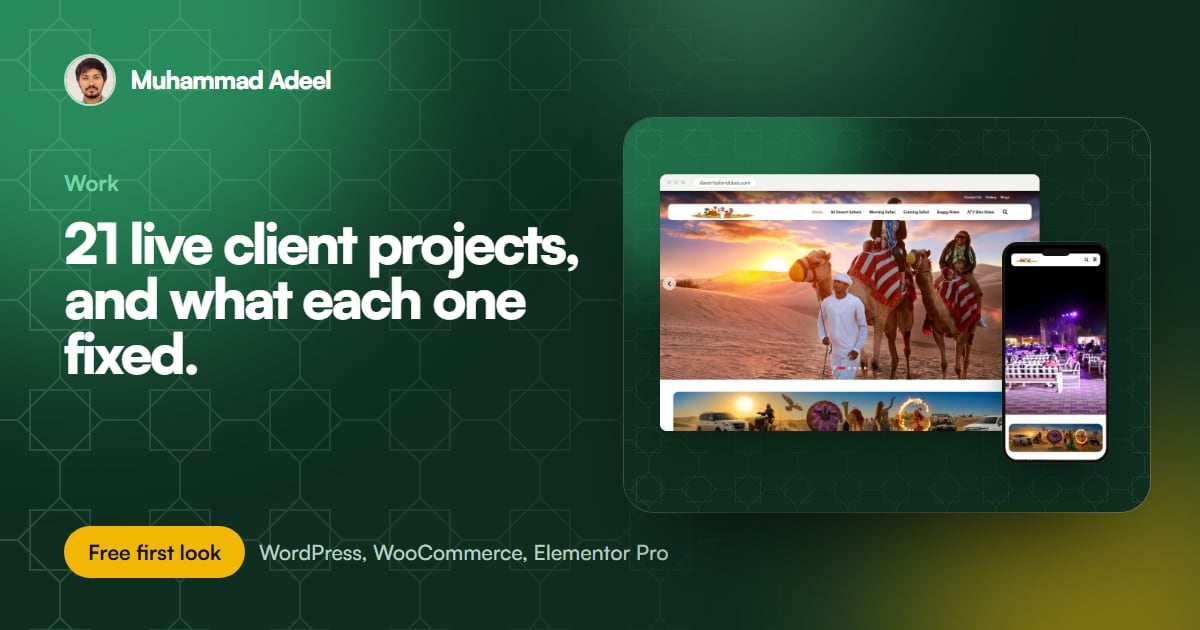
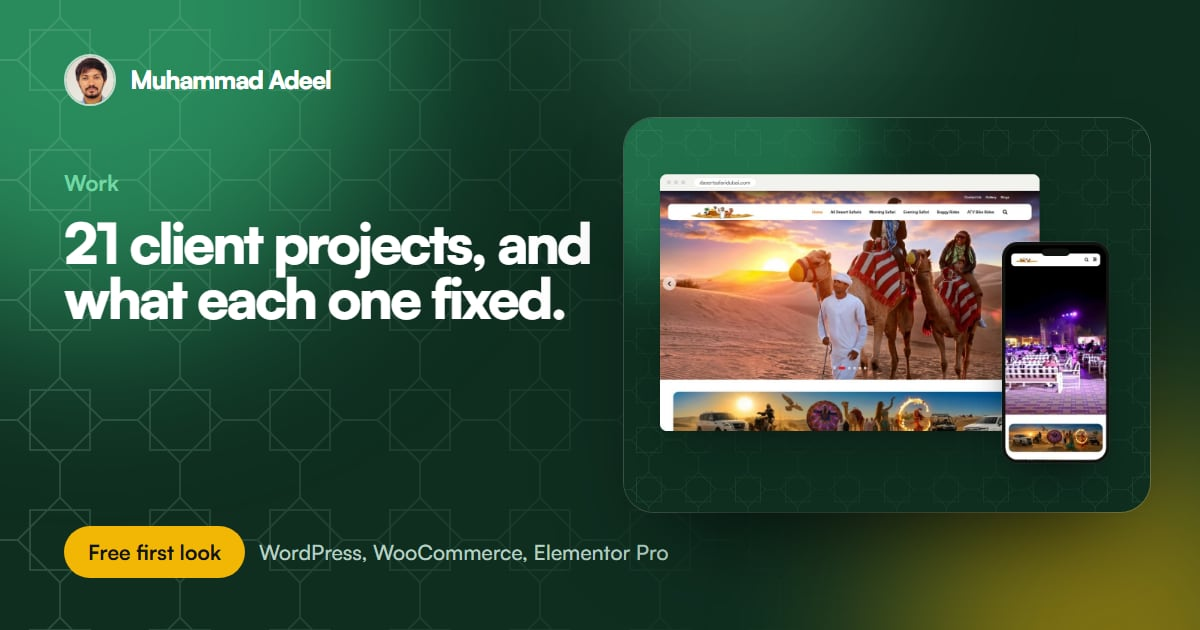
Make project counts defensible, add technology and result to case studies
- 19 of the 21 projects are live to open; the homepage, work page title,
  meta description and share image no longer say 21 live
- Counts are computed from the project data in build.js
- Case studies gain a Built with chapter, and a Result chapter for the
  three projects with an approved outcome
- README status reflects the deploy

Changed region(s): [[0.0308, 0.3317, 0.4933, 0.6032]]

diff --git a/build.js b/build.js
@@ -45,7 +45,9 @@ const pic = (rel, alt, o = {}) => { const m = manifest[rel]; if (!m) throw new E
 // client video: poster only until play is pressed, so it costs nothing at page load
 const videoFrame = v => '<div class="vt-frame"><video src="' + BASE + '/video/' + v.file + '" poster="' + imgUrl(v.poster, 960) + '" preload="none" playsinline width="576" height="1024"></video><button class="vt-play" type="button" aria-label="Play the video message from ' + esc(v.who) + '"><svg viewBox="0 0 24 24" aria-hidden="true"><path fill="currentColor" d="M8 5.5v13a1 1 0 0 0 1.5.86l10.5-6.5a1 1 0 0 0 0-1.72L9.5 4.64A1 1 0 0 0 8 5.5z"/></svg></button><span class="vt-len">' + v.len + '</span></div>';
 
-const fill = h => h.replace(/\{\{base\}\}/g, BASE).replace(/\{\{video:([a-z0-9-]+)\}\}/g, (m, slug) => videoFrame(projects.find(p => p.slug === slug).video)).replace(/\{\{icon:([a-z0-9-]+)\}\}/g, (m, n) => icon(n)).replace(/\{\{stack\}\}/g, stackStrip)
+// counts come from the data, so a claim on the page can never drift from what is actually on the site
+const COUNT = { all: projects.length, live: projects.filter(p => !p.offline).length };
+const fill = h => h.replace(/\{\{base\}\}/g, BASE).replace(/\{\{n:(all|live)\}\}/g, (m, k) => COUNT[k]).replace(/\{\{video:([a-z0-9-]+)\}\}/g, (m, slug) => videoFrame(projects.find(p => p.slug === slug).video)).replace(/\{\{icon:([a-z0-9-]+)\}\}/g, (m, n) => icon(n)).replace(/\{\{stack\}\}/g, stackStrip)
   .replace(/\{\{pic:([^|}]+)\|([^}]*)\}\}/g, (m, rel, alt) => rel === 'adeel' ? pic(rel, alt, { sizes: '(max-width:860px) 90vw, 420px' }) : pic(rel, alt));
 
 /* ---------- background motif: WordPress and the tools around it, one repeating SVG tile ---------- */
@@ -74,7 +76,7 @@ const closing = o => `<section class="final"><div class="orbs local"><i></i><i><
 
 const footer = () => `<footer class="site"><div class="wrap foot">
   <div><a class="brand" href="${BASE}/">${avatar()}${S.brand}</a><p>WordPress and WooCommerce developer in Lahore. I fix what is broken and build sites your team can run.</p></div>
-  <div><h2>Work</h2><a href="${BASE}/portfolio/">All 21 projects</a>${projects.slice(0, 3).map(p => '<a href="' + BASE + '/portfolio/' + p.slug + '/">' + esc(p.name) + '</a>').join('')}</div>
+  <div><h2>Work</h2><a href="${BASE}/portfolio/">All ${COUNT.all} projects</a>${projects.slice(0, 3).map(p => '<a href="' + BASE + '/portfolio/' + p.slug + '/">' + esc(p.name) + '</a>').join('')}</div>
   <div><h2>Services</h2>${C.services.map(s => '<a href="' + BASE + '/services/' + s.slug + '/">' + (s.nav === 'Fix' ? 'WooCommerce and WordPress fixes' : s.nav === 'Build' ? 'Website builds' : 'White label for agencies') + '</a>').join('')}</div>
   <div><h2>Contact</h2><a href="${wa('Hi Adeel, I found your site. ')}" target="_blank" rel="noopener">WhatsApp</a><a href="mailto:${S.email}">Email</a><a href="${S.linkedin}" target="_blank" rel="noopener">LinkedIn</a><a href="${S.github}" target="_blank" rel="noopener">GitHub</a><a href="${BASE}/cv/">CV</a></div>
 </div><div class="wrap"><span>© 2026 ${S.name}. It is <span class="clock">00:00</span> in Lahore.</span><span>Built by hand, no page builder.</span></div></footer>`;
@@ -139,7 +141,7 @@ function home() {
   page({
     path: '/', nav: 'home', og: 'home', priority: '1.0', wa: 'Hi Adeel, I found your site. My website is: ',
     title: 'WordPress and WooCommerce developer who fixes what is broken | Adeel Iqbal',
-    desc: 'Checkout failing, a site that broke after an update, or a build your team can edit. I find the real cause, fix it properly and test it. 21 live client sites across 5 countries. Free first look.',
+    desc: 'Checkout failing, a site that broke after an update, or a build your team can edit. I find the real cause, fix it properly and test it. ' + COUNT.all + ' client projects across 5 countries, ' + COUNT.live + ' of them live to open. Free first look.',
     body, schema: [{ '@type': 'ProfessionalService', '@id': S.url + '/#service', name: 'Adeel Iqbal, WordPress and WooCommerce development', url: S.url + '/', image: S.url + '/og/home.jpg', founder: { '@id': S.url + '/#adeel' }, areaServed: ['AE', 'GB', 'US', 'PK'], priceRange: '$45 to $600+', address: person.address, telephone: S.phone }, faqSchema(qa)],
   });
 }
@@ -150,7 +152,7 @@ function work() {
   const rows = projects.map(p => { const card = 'mockups/' + p.slug + '-card', cover = has(card) ? card : 'mockups/' + p.slug; return '<a class="wrow" href="' + BASE + '/portfolio/' + p.slug + '/" data-tags="' + p.tags + '" data-img="' + imgUrl(cover, 960) + '"><h2>' + esc(p.name) + '</h2><p>' + esc(p.line) + '</p><span class="meta">' + esc(p.industry + ', ' + p.location + ', ' + p.year) + '</span><span class="th">' + pic(cover, '', { sizes: '120px' }) + '</span></a>'; }).join('\n');
   page({
     path: '/portfolio/', nav: 'work', og: 'portfolio', priority: '0.9', peek: true, wa: 'Hi Adeel, I looked through your work. Here is what I need: ',
-    title: 'WordPress and WooCommerce portfolio: 21 live client projects | Adeel Iqbal',
+    title: 'WordPress and WooCommerce portfolio: ' + COUNT.all + ' client projects | Adeel Iqbal',
     desc: 'Booking flows, vehicle inventories, practitioner directories, telehealth and business sites. Every project says what the client was stuck on and what I built.',
     closing: { mega: 'Not on the list?', h: 'Tell me what you are trying to do.' },
     schema: [{ '@type': 'ItemList', itemListElement: projects.map((p, i) => ({ '@type': 'ListItem', position: i + 1, url: S.url + '/portfolio/' + p.slug + '/', name: p.name })) }, crumbSchema([['Home', '/'], ['Work', '/portfolio/']])],
@@ -185,10 +187,11 @@ function caseStudy(p, i) {
 <section class="chapter"><b>The problem</b><div><p class="say" style="margin-top:0">${esc(say)}</p>${rest ? '<p>' + esc(rest) + '</p>' : ''}</div></section>
 ${p.flow ? '<section class="chapter"><b>The idea</b><div><h2 class="display" data-split>Treat inventory as data. Let the site draw itself from it.</h2><p>One vehicle becomes one record with fields. Everything a buyer sees reads from that record, so there is only ever one place to change anything.</p>' + read('src/fragments/flow-rockbusto.html') + '</div></section>' : ''}
 <section class="chapter"><b>What I built</b><div><h2 class="display" data-split>${p.solution.length} pieces, one system.</h2><ul class="built glass">${p.solution.map(s => '<li>' + icon('check') + '<span>' + esc(s) + '</span></li>').join('')}</ul></div></section>
+<section class="chapter"><b>Built with</b><div><div class="tags" style="margin-top:0">${p.stack.map(s => '<span>' + (LOGO_FOR[s] ? logo(LOGO_FOR[s]) : '') + esc(s) + '</span>').join('')}</div></div></section>
 ${gallery}
 ${p.video ? '<section class="chapter"><b>From the client</b><div><figure class="vt glass">' + videoFrame(p.video) + '<figcaption><h2 class="display">A message from ' + esc(p.video.who) + '.</h2><p>' + esc(p.video.len.replace(/^0:/, '')) + ' seconds, recorded on a phone, not in a studio.</p></figcaption></figure></div></section>' : ''}
+${p.result ? '<section class="chapter"><b>The result</b><div><p class="say" style="margin-top:0">' + esc(p.result) + '</p></div></section>' : ''}
 <section class="chapter"><b>How I approached it</b><div><p style="margin-top:0">${esc(p.body)}</p>${p.offline ? '<p class="offline">' + esc(p.offline) + '</p>' : ''}
-  <div class="tags">${p.stack.map(s => '<span>' + (LOGO_FOR[s] ? logo(LOGO_FOR[s]) : '') + esc(s) + '</span>').join('')}</div>
   <div class="cta-row" style="margin-top:40px"><a class="btn" href="${wa(waText)}" target="_blank" rel="noopener" data-magnet>{{icon:message-circle}}I need something like this</a>${online ? '<a class="btn line" href="' + p.url + '" target="_blank" rel="noopener">Open the live site{{icon:arrow-up-right}}</a>' : ''}</div></div></section>
 </div>
 <a class="nextcs" href="${BASE}/portfolio/${next.slug}/" data-cursor="Next"><div class="orbs local"><i></i><i></i><i></i><i></i><i></i></div><div class="wrap"><div><p style="color:var(--on-deep);font-weight:600;margin-bottom:16px">Next case study</p><h2 class="display">${esc(next.name)}</h2><p class="lede" style="color:var(--on-deep);margin-top:18px">${esc(next.line)}</p></div>${pic(has('mockups/' + next.slug + '-card') ? 'mockups/' + next.slug + '-card' : 'mockups/' + next.slug, '', { sizes: '440px' })}</div></a>`,

diff --git a/content.js b/content.js
@@ -44,9 +44,9 @@ exports.lines = {
   '7sky-consultant': 'A study abroad consultancy with country pages and a counselling enquiry route.',
 };
 
-// per project corrections and extras
+// per project corrections and extras. `result` shows as its own chapter on the case study: add one only when the outcome is true and the client would agree with it.
 exports.overrides = {
-  'rockbusto-fleet': { h1: 'A vehicle dealer that updates its own inventory in a minute.', flow: true },
+  'rockbusto-fleet': { h1: 'A vehicle dealer that updates its own inventory in a minute.', flow: true, result: 'The team adds or edits a vehicle from the WordPress admin. No layout work, no developer.' },
   'desert-safari-dubai': {
     h1: 'From bookings over WhatsApp to a tour you can book and pay for yourself.',
     tagline: 'Online tour booking with group pricing and a custom reviews widget',
@@ -54,10 +54,11 @@ exports.overrides = {
     solution: ['Tour pages on WooCommerce with a booking form for date, tour type and group size', 'Group pricing that lowers the price per person as the group grows', 'An admin approval step: new bookings wait as pending until the team confirms or rejects them', 'Automatic emails to the customer and the team at each stage', 'A custom reviews widget built for Elementor, with its own admin screen for moderating reviews', 'A WhatsApp field on the booking form, because that is how UAE customers prefer to talk', 'Mobile first tour pages built in Elementor Pro'],
     stack: ['WordPress', 'WooCommerce', 'Custom PHP', 'Elementor Pro', 'SMTP Email'],
     body: 'The client was losing bookings because customers had to WhatsApp for pricing, wait for a manual reply, then pay separately. The new flow turned this into a self serve experience: choose a tour, pick a date, set the group size, book online, and get a confirmation once the team approves.',
+    result: 'Pick a tour, a date and a group size, then book online. The owner manages reviews without a third party app.',
     extraShot: ['inner/desert-safari-dubai-reviews', 'The custom reviews widget'],
     video: { file: 'desert-safari-testimonial.mp4', poster: 'testimonial-desert-safari', len: '0:34', who: 'the owner of Desert Safari Dubai' },
   },
-  'biodynamic-breathwork': { h1: '173 practitioners on a map, and a mobile score that went from 39 to 92.', offline: 'The client has since moved this site to another platform, so there is no live link. The graphic above summarises the build.' },
+  'biodynamic-breathwork': { h1: '173 practitioners on a map, and a mobile score that went from 39 to 92.', result: 'Editors add a person without touching a layout. PageSpeed moved from 83 and 39 to 98 and 92 at hand over.', offline: 'The client has since moved this site to another platform, so there is no live link. The graphic above summarises the build.' },
   '7sky-consultant': { offline: 'This site was offline when I last checked, so there is no live link or screenshot yet.' },
 };
 

diff --git a/src/fragments/home.html b/src/fragments/home.html
@@ -6,7 +6,7 @@
   </h1>
   <div class="hero-row">
     <p class="lede" data-intro-fade>Tell me what is broken, or what you need built. I find the real cause, fix it properly, and hand you back a WordPress site your team can run without calling a developer every week.</p>
-    <div class="hero-cta" data-intro-fade><a class="btn" href="{{base}}/contact/" data-magnet>{{icon:message-circle}}Tell me what's broken</a><a class="btn line" href="{{base}}/portfolio/">See 21 live sites</a></div>
+    <div class="hero-cta" data-intro-fade><a class="btn" href="{{base}}/contact/" data-magnet>{{icon:message-circle}}Tell me what's broken</a><a class="btn line" href="{{base}}/portfolio/">See all {{n:all}} projects</a></div>
   </div>
 </div></section>
 
@@ -59,7 +59,7 @@
 
 <section class="band tight"><div class="wrap">
   <div class="figs glass">
-    <div class="fig"><b data-count="21">21</b><p>client sites you can open and click through right now</p></div>
+    <div class="fig"><b data-count="{{n:live}}">{{n:live}}</b><p>client sites you can open and click through right now, out of {{n:all}} projects shown</p></div>
     <div class="fig"><b data-count="10">10</b><p>industries, from telehealth and law to vehicle fleets and tourism</p></div>
     <div class="fig"><b data-count="5">5</b><p>countries: UAE, USA, UK, Japan and Pakistan</p></div>
     <div class="fig"><b><span data-count="92" data-from="39">92</span></b><p>mobile PageSpeed, up from 39, on a directory site with 173 profiles</p></div>

diff --git a/tools/graphics.js b/tools/graphics.js
@@ -112,7 +112,7 @@ async function og() {
   const card = slug => has('mockups/' + slug + '-card') ? 'mockups/' + slug + '-card' : 'mockups/' + slug;
   const items = [
     ['home', 'Your site should be taking orders, not throwing errors.', 'WordPress and WooCommerce developer', card('rockbusto-fleet')],
-    ['portfolio', '21 live client projects, and what each one fixed.', 'Work', card('desert-safari-dubai')],
+    ['portfolio', C.order.length + ' client projects, and what each one fixed.', 'Work', card('desert-safari-dubai')],
     ['cv', 'Muhammad Adeel Iqbal', 'CV, WordPress and WooCommerce developer', card('al-emirates-tours')],
     ['contact', 'Tell me what is going on. I will tell you what it needs.', 'Free first look, fixed quote', card('fastdocnow')],
   ].concat(C.services.map(s => ['service-' + s.slug, s.h1, s.nav === 'Partner' ? 'For agencies' : s.nav === 'Fix' ? 'WooCommerce and WordPress fixes' : 'Website builds', s.image]))

diff --git a/README.md b/README.md
@@ -2,7 +2,7 @@
 
 Portfolio of Muhammad Adeel Iqbal, WordPress and WooCommerce developer. A static site with no framework: `node build.js` turns content, data and templates into `dist/`.
 
-Status on 18 September 2026: built and tested locally. **Not deployed.** The live site at adeeliqbalanjum.github.io/adeelatwork still runs the old Next.js version.
+Status: **live** at adeeliqbalanjum.github.io/adeelatwork since 18 September 2026 (commit `42ba5b5`, GitHub Actions run 307). The previous Next.js site is kept on the branch `backup-before-v4-static`.
 
 ## Run it
 
@@ -79,7 +79,7 @@ Home on mobile: LCP 2.2s, total blocking time 10ms, layout shift 0. Home on desk
 
 Also checked: 1,298 internal links and image references, 0 broken. Desktop Chrome: all page types, light and dark, no console errors.
 
-## Deploy (when you say go)
+## Deploy
 
 The repo `adeeliqbalanjum/adeelatwork` deploys from `main` through GitHub Actions. Deploying means replacing the repo contents with this folder (minus `node_modules`, `dist`, `reports`) including the new `.github/workflows/deploy.yml`, and pushing to `main`. The old site stays in git history and on the existing backup branches, so rollback is one revert.
 
